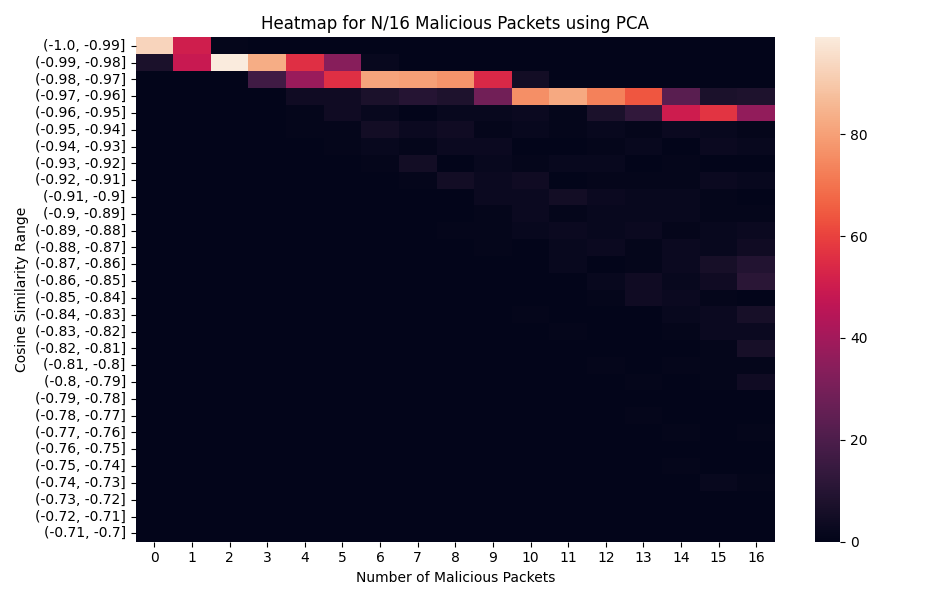
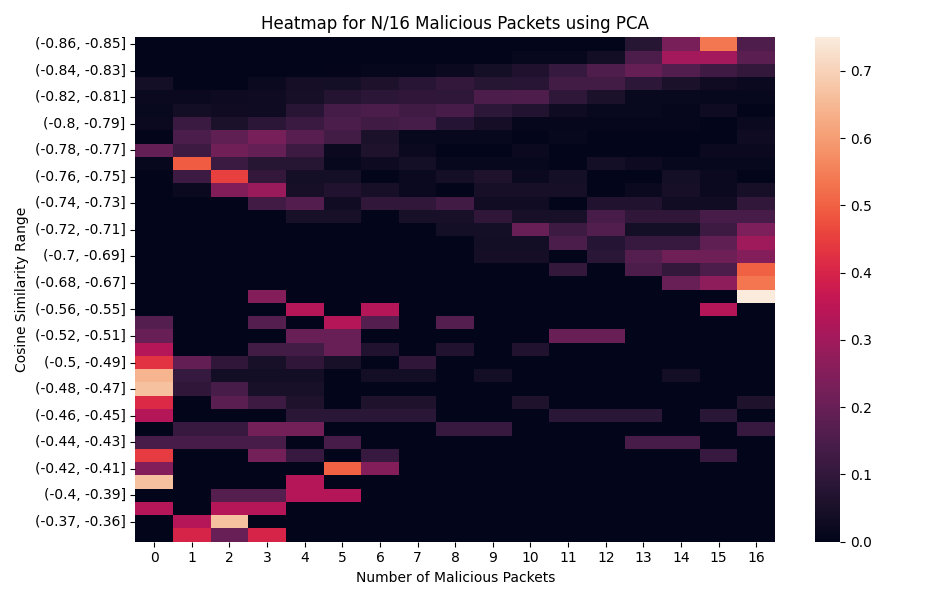
default message

diff --git a/distribution_analysis.py b/distribution_analysis.py
@@ -16,6 +16,7 @@ _defaultDir = fp.images.directory.distributionAnalysis
 
 _defPlotKwArgs = {"tight_layout":True}
 
+
 def kolm_smirnov_analysis(data1, data2, nameSuffix):
     length = 10
     size = (length,length)
@@ -93,10 +94,23 @@ def line_plot_n_malicious(
     ax.set_title(name)
     ax.set_xlabel("Fraction of Malicious Packets")
     ax.set_ylabel(ylabel)
-    sns.despine(ax=ax, top=False, right=False)
+    # sns.despine(ax=ax, top=False, right=False)
     if not gv.DEBUG:
         plt.savefig(fp.images.directory.distributionAnalysis + name.replace(" ", "") + ".png")
+    plt.figure()
     return vals
+
+def plot_n_mal_sizes():
+    sizes = [173685, 49750, 21443, 12050, 8816, 7184, 6441,5710,5482,4836,4575,3903,3514,2973,2377,2423,2342]
+    fractions = [x/16. for x in range(len(sizes))]
+    plt.figure()
+    ax = sns.lineplot(fractions,sizes)
+    ax.set_title("Data Amount Given Malicous Packet Fracton")
+    ax.set_ylabel("Window Count")
+    ax.set_xlabel("Fraction of Malicious Packets")
+    plt.subplots_adjust(left=.14)
+    plt.savefig(fp.images.directory.distributionAnalysis + "dataSizeLine.png")
+    return ax
 
 def get_losses_per_batch(
         ae:autoencoder.autoencoder,
@@ -119,9 +133,10 @@ def get_losses_per_batch(
 def get_lossDf(
         ae: autoencoder.autoencoder,
         networkWindow: tdp.network_window,
-        metric="loss", nGroups=20 if gv.DEBUG else 100,
+        metric="loss", nGroups=20 if gv.DEBUG else 100, nMaliciouses=None
     ):
-    nMaliciouses = [0,8,16] if gv.DEBUG else [i for i in range(0,17)] # [0,4,8,12,16]
+    if nMaliciouses is None:
+        nMaliciouses = [0,8,16] if gv.DEBUG else [i for i in range(0,17)] # [0,4,8,12,16]
     df = {}
     for nMalicious in nMaliciouses:
         print("%s malicious packets" %(nMalicious))
@@ -130,18 +145,22 @@ def get_lossDf(
     df = pd.DataFrame(df)
     return df
 
-def dist_plots(lossDf:pd.DataFrame, name="", ylabel="",
+def dist_plots(lossDf:pd.DataFrame, suffix="", ylabel="",
 ):
     lossDf.sort_index(inplace=True)
     ax = sns.displot(lossDf, kind="hist", multiple='stack')
-    ax = sns.displot(lossDf, kind="kde", fill=True, legend="# malicious")
+    plt.figure()
+    ax = sns.displot(lossDf, kind="kde", fill=True, legend="# malicious", ax=ax, height=4, aspect=2)
     ax.set_xlabels("Cosine Similarity")
     # ax.suptitle("Distribution of Frame (Size 16) With Number of Malicious Packets")
-    ax.set(xlim=(-1,1))
-    plt.title("Distribution of Frame (Size 16) With Number of Malicious Packets")
+    ax.set(xlim=(-1,0.) if suffix=="PCA" else (-1,-0.9))
+    plt.title("Loss Given the Number of Malicious Packets using " + suffix)
+    plt.subplots_adjust(top=.9, bottom=.15)
     # plt.legend(nMaliciouses, "Number of Malicious Packets")
     # ax.set_xlabel("Cosine Similarity")
     # sns.despine(ax=ax, top=False, right=False)
+    if not gv.DEBUG:
+        plt.savefig(fp.images.directory.distributionAnalysis + "KdeLoss" + suffix.replace(' ','') + ".png")
 
     return ax
 
@@ -168,17 +187,21 @@ def bucket_probs(
     for col in lossDf.columns:
         dfCounts[col] = pd.cut(lossDf[col], bins=bins, retbins=True)[0].value_counts()
 
-    dfCounts.sort_index(inplace=True)
+    sums = dfCounts.sum(axis=1)
+    sums = sums[sums > 2]
+    normedDf = dfCounts.loc[sums.index].div(sums, axis=0).dropna()
+    normedDf.sort_index(inplace=True)
+
     fig = plt.figure(figsize=(9.5,6), **_defPlotKwArgs)
-    ax = sns.heatmap(dfCounts)
+    ax = sns.heatmap(normedDf)
     ax.set_title("Heatmap for N/16 Malicious Packets using " + suffix)
     ax.set_ylabel("Cosine Similarity Range")
     ax.set_xlabel("Number of Malicious Packets")
 
     name = "cosSimHeatMapNormedProb" + suffix
-    plt.savefig(fp.images.directory.distributionAnalysis + name + ".png")
+    if not gv.DEBUG:
+        plt.savefig(fp.images.directory.distributionAnalysis + name.replace(' ','') + ".png")
 
-    normedDf = dfCounts.div(dfCounts.sum(axis=1), axis=0).dropna()
     colSize = len(normedDf.columns)
     pivot = math.ceil(colSize / 2)
 

diff --git a/autoencoder.py b/autoencoder.py
@@ -168,22 +168,23 @@ def analyze(nw:tdp.network_window, suffix, fit, load, featSizeFactor, bucketsRng
 
     # benign_malicious_latent(ae, benign, hetero)
     metric = keras.losses.CosineSimilarity()
-    # da.line_plot_n_malicious(ae, nw, metric, ylabel="Cosine Similarity", name="Decoded Analysis")
-    lossDf = da.get_lossDf(ae, nw,)
-    da.bucket_probs(lossDf, suffix=suffix, rngArgs=bucketsRngArgs,)
-    # da.dist_plots(lossDf)
+    # da.line_plot_n_malicious(ae, nw, metric, ylabel="Cosine Similarity", name="Decoded Analysis using " + suffix)
+    # lossDf = da.get_lossDf(ae, nw,)
+    # da.bucket_probs(lossDf, suffix=suffix, rngArgs=bucketsRngArgs,)
+    lossDf = da.get_lossDf(ae, nw, nMaliciouses=[0,1,2,4,8,12,16])
+    da.dist_plots(lossDf, suffix=suffix)
     return ae
 
 if __name__ == "__main__":
     if gv.DEBUG: gv.enable_tf_debug()
+    # da.plot_n_mal_sizes()
     nw = tdp.network_window.get_window_data(NTIMESTEPS, firstN=_NDATA)
     load = True
     # load = False
     fit = False
     # fit=True
-    # ae = analyze(nw, specificNnSuffix[spec_nn.FULL], fit, load, featSizeFactor=.68, bucketsRngArgs=None)
-    # nw.perform_pca()
-    ae = analyze(nw, specificNnSuffix[spec_nn.PCA], fit, load, featSizeFactor=1., bucketsRngArgs=(-1,-.6999,.01))
-
+    # ae = analyze(nw, specificNnSuffix[spec_nn.FULL], fit, load, featSizeFactor=1., bucketsRngArgs=None)
+    nw.perform_pca() #13 components for only benign
+    ae = analyze(nw, specificNnSuffix[spec_nn.PCA], fit, load, featSizeFactor=1.455, bucketsRngArgs=(-1,1.001,.01))
     plt.show()
     exit()

diff --git a/timeDataProcessing.py b/timeDataProcessing.py
@@ -48,8 +48,11 @@ class network_window:
     def perform_pca(self):
         pca = PCA(0.99, random_state=42)
         shape = self.windows.shape
-        self.windows = np.reshape(self.windows,(-1, self.windows.shape[-1]))
-        pca.fit(self.get_n_malicious(0))
+        pcaShape = (-1, self.windows.shape[-1])
+        benign = self.get_n_malicious(0)
+        benign = np.reshape(benign, pcaShape)
+        self.windows = np.reshape(self.windows,pcaShape)
+        pca.fit(benign)
         self.windows = pca.transform(self.windows)
         self.windows = np.reshape(self.windows, shape[:2] + (self.windows.shape[-1],))
         print("%d PCA components" %(self.windows.shape[-1]))
